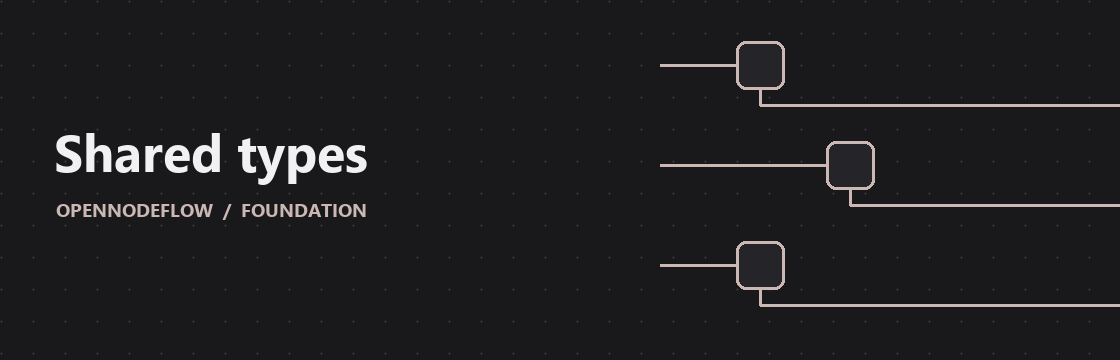
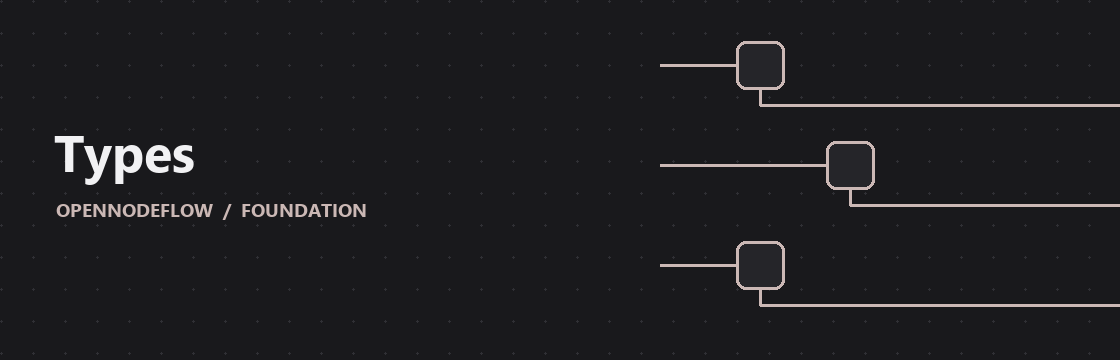
Rename default shared types presentation to OpenNodeFlow Types

Changed region(s): [[0.0312, 0.3667, 0.3438, 0.5194]]

diff --git a/README.md b/README.md
@@ -8,7 +8,7 @@ Recommended starting packages, in order:
 2. **OpenNodeFlow Runtime** — storage, queues, variables, waits and execution coordination.
 3. **OpenNodeFlow Logic** — branching, comparisons, selection and general logic.
 4. **OpenNodeFlow Utilities** — HTTP, text, dates, collections, files and serialization.
-5. **OpenNodeFlow Shared Types** — general reusable data contracts.
+5. **OpenNodeFlow Types** — general reusable data contracts.
 
 ## Install
 
